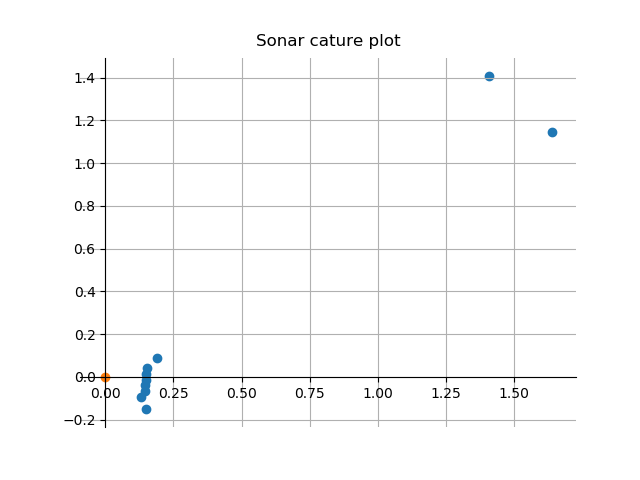
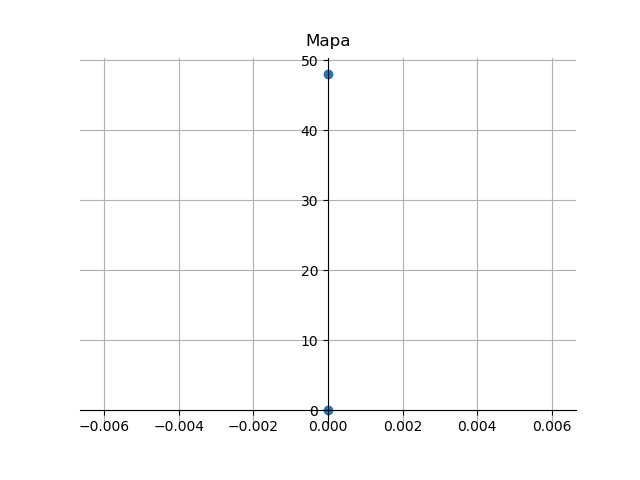
check mapa inicial

diff --git a/src/abelhudo_pkg/src/car_node.py b/src/abelhudo_pkg/src/car_node.py
@@ -123,21 +123,34 @@ def start_mapa():
     global dist
     global dist_ant
     global dist_ant_2
-    mapa = []
-    # Olha para a direita
-    for i in range 5:
-        servo_angle(1)
-    delay.sleep(0.2)
-    mean_dist = round((dist + dist_ant + dist_ant_2) / 3)
-    if (dist < 1.5):
-        mapa.append((0,mean_dist*100))
+    mapa = [(0,0)]
     # Olha para a esquerda
-    for i in range 5:
-        servo_angle(89)
-    delay.sleep(0.2)
-    mean_dist = round((dist + dist_ant + dist_ant_2) / 3)
+    for i in range(0,50):
+        servo_angle(1)
+        delay.sleep(0.01)
+        servo_angle(2)
+    delay.sleep(0.5)
+    while(dist is not dist_ant and dist is not dist_ant_2):
+        if (dist > 1.5 and dist_ant > 1.5 and dist_ant_2 > 1.5):
+            break
     if (dist < 1.5):
-        mapa.append((0,-mean_dist*100))
+        mapa.append((0,-dist*100))
+    # Olha para o meio
+    #for i in range(0,50):
+    #    servo_angle(45)
+    #    delay.sleep(0.01)
+    #    servo_angle(46)
+    # Olha para a direita
+    for i in range(0,50):
+        servo_angle(89)
+        delay.sleep(0.01)
+        servo_angle(88)
+    delay.sleep(0.5)
+    while(dist is not dist_ant and dist is not dist_ant_2):
+        if (dist > 1.5 and dist_ant > 1.5 and dist_ant_2 > 1.5):
+            break
+    if (dist < 1.5):
+        mapa.append((0,dist*100))
     return mapa
 
 def plot_mapa(mapa):
@@ -148,8 +161,7 @@ def plot_mapa(mapa):
     ax.spines['right'].set_color('none')
     ax.spines['top'].set_color('none')
     ax.grid(True)
-    ax.set_title("Sonar capture plot", va='bottom')
-    plt.scatter(0,0)
+    ax.set_title("Mapa", va='bottom')
     plt.scatter(*zip(*mapa))
     plt.savefig('/home/pi/abelhudo_ws/src/abelhudo_pkg/src/foo.png')
     plt.close()
@@ -183,7 +195,6 @@ def backwards(count_encoder_estados): #backwards
 
 def record(mapa):
     global dist
-    
     return mapa
 
 
@@ -205,15 +216,17 @@ if __name__ == '__main__':
     rospy.loginfo("Carro iniciado.")
     servo_angle(45)
     rate = rospy.Rate(150) # ---------------- RATE ----------------
+    delay.sleep(1)
 
     ''' Variaveis locais '''
     count_encoder_estados = 0    # Variavel para contagem do numero de passos do encoder entre estados
     # Transformar num array ^^^^
     estado = "reta1"
     mapa = start_mapa()
-    plot_mapa()
+    plot_mapa(mapa)
 
     while not rospy.is_shutdown():
+        servo_angle(45)
         #if (estado == "reta1"):
         #    estado, count_encoder_estados = get_length(count_encoder_estados)
         #elif (estado == "reta2"):

diff --git a/src/abelhudo_pkg/src/servo_node.py b/src/abelhudo_pkg/src/servo_node.py
@@ -22,7 +22,7 @@ GPIO.setwarnings(False)
 
 # Variaveis Globais / Pinos
 servoPIN   = 3
-old_agle = -1
+old_angle = -1
 angle = -1 # 0 -> 90
 
 
